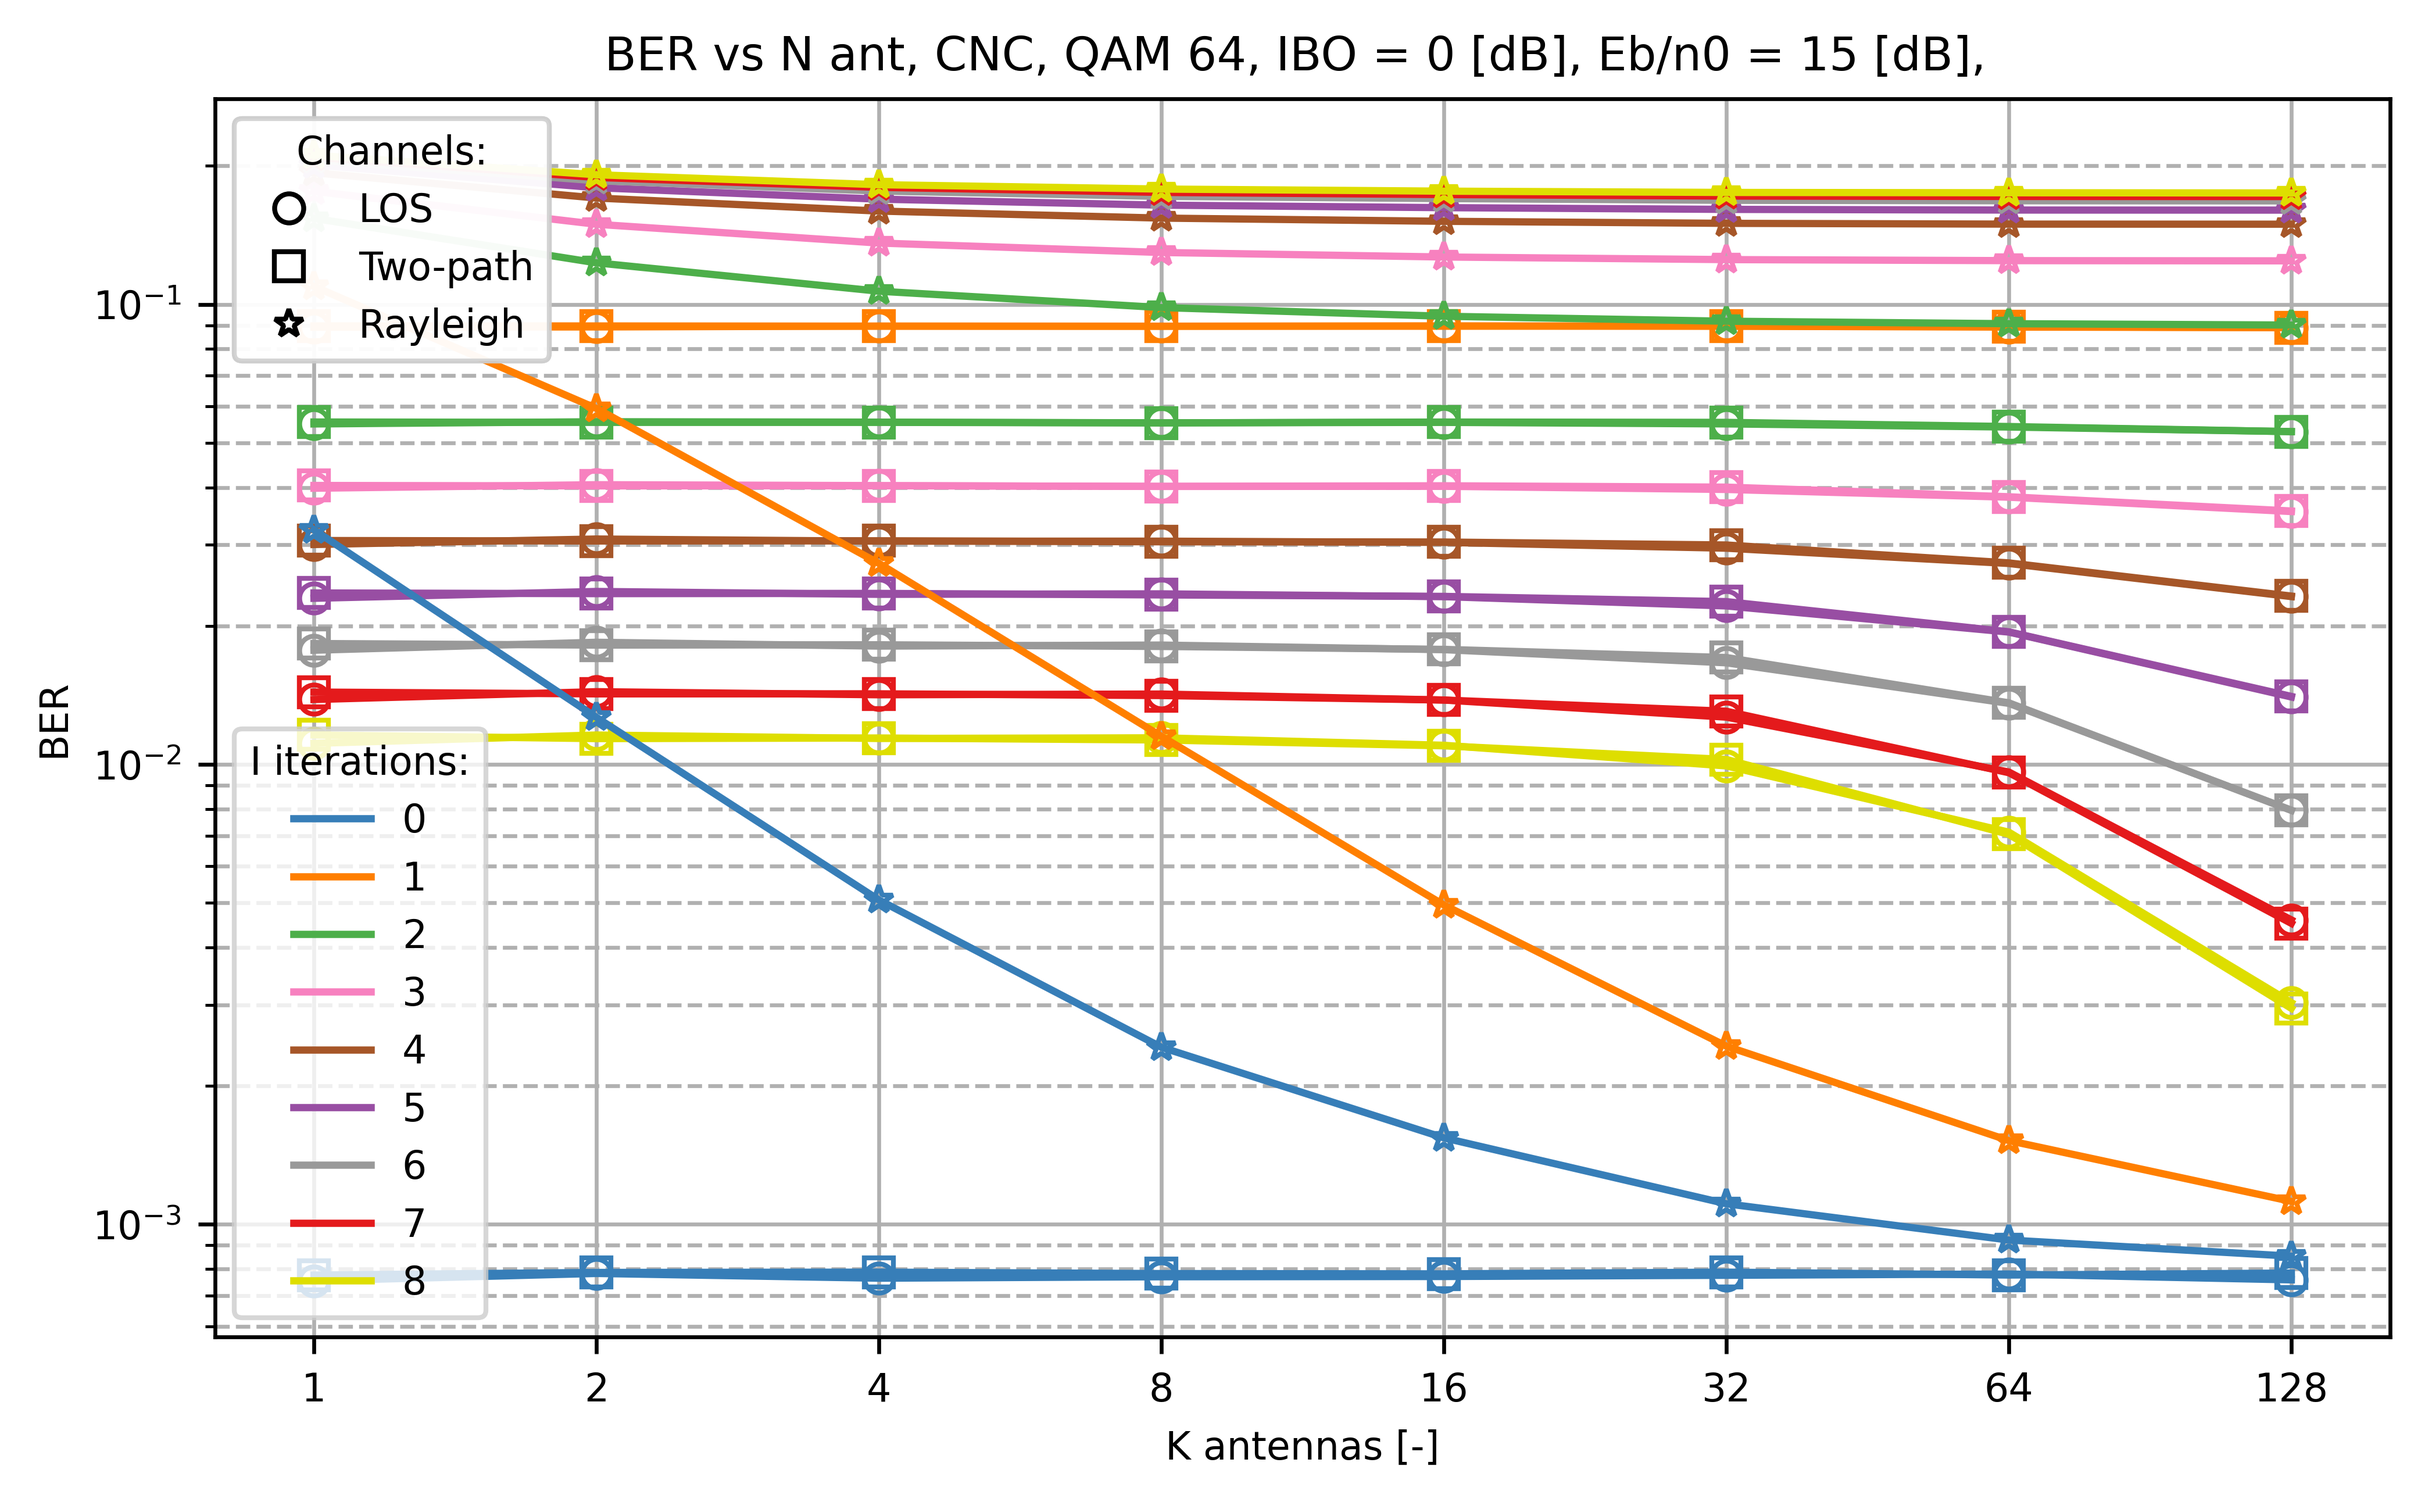
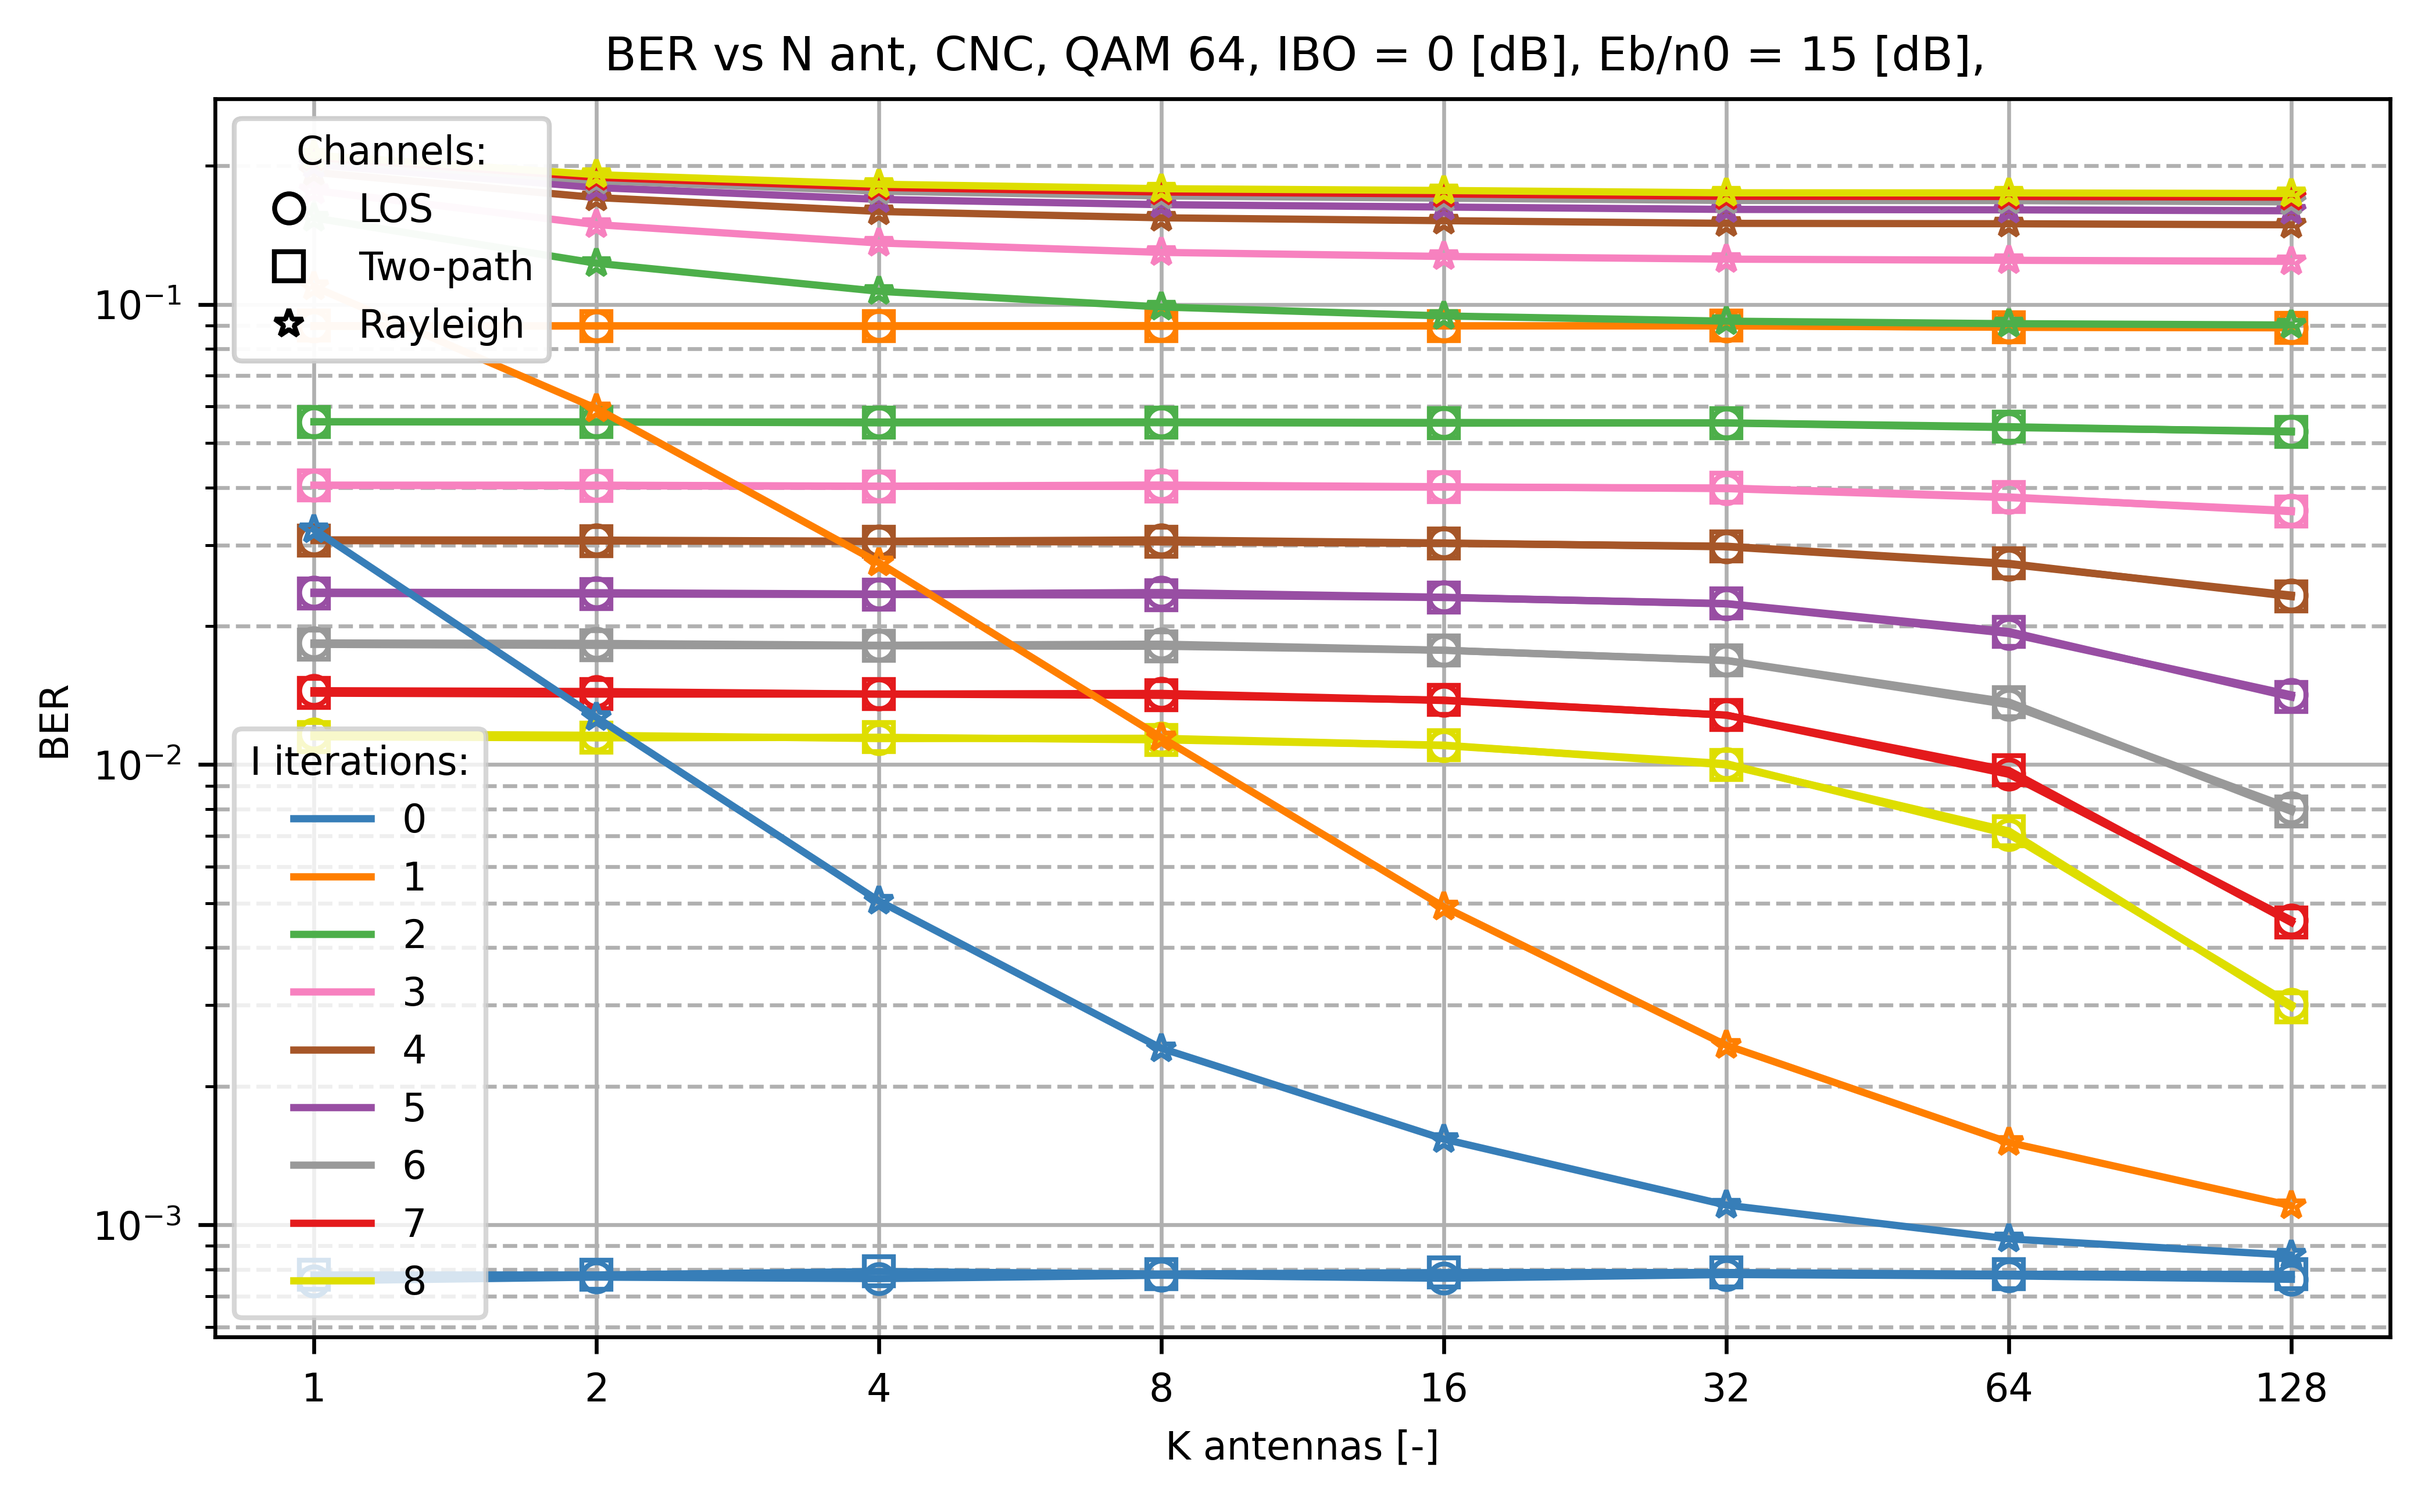
cnc ber vs nant full csv data upload

diff --git a/vm_scripts/vm_runner.py b/vm_scripts/vm_runner.py
@@ -13,7 +13,7 @@ filename_str_lst = [
     # "main_mp_clipping_noise_cancellation/main_mp_miso_cnc_ber_vs_nant_vs_chan.py",
 
     # "main_mp_clipping_noise_cancellation/main_mp_miso_mcnc_ber_vs_ebn0.py",
-    "main_mp_clipping_noise_cancellation/main_mp_miso_mcnc_ber_vs_nant_vs_chan.py"
+    "main_mp_clipping_noise_cancellation/main_mp_miso_cnc_ber_vs_nant_vs_chan.py"
     # "main_mp_clipping_noise_cancellation/main_mp_miso_mcnc_ber_vs_ibo.py"
     # "main_mp_clipping_noise_cancellation/main_mp_miso_mcnc_constant_ber_req_ebn0_vs_ibo.py",
 ]
